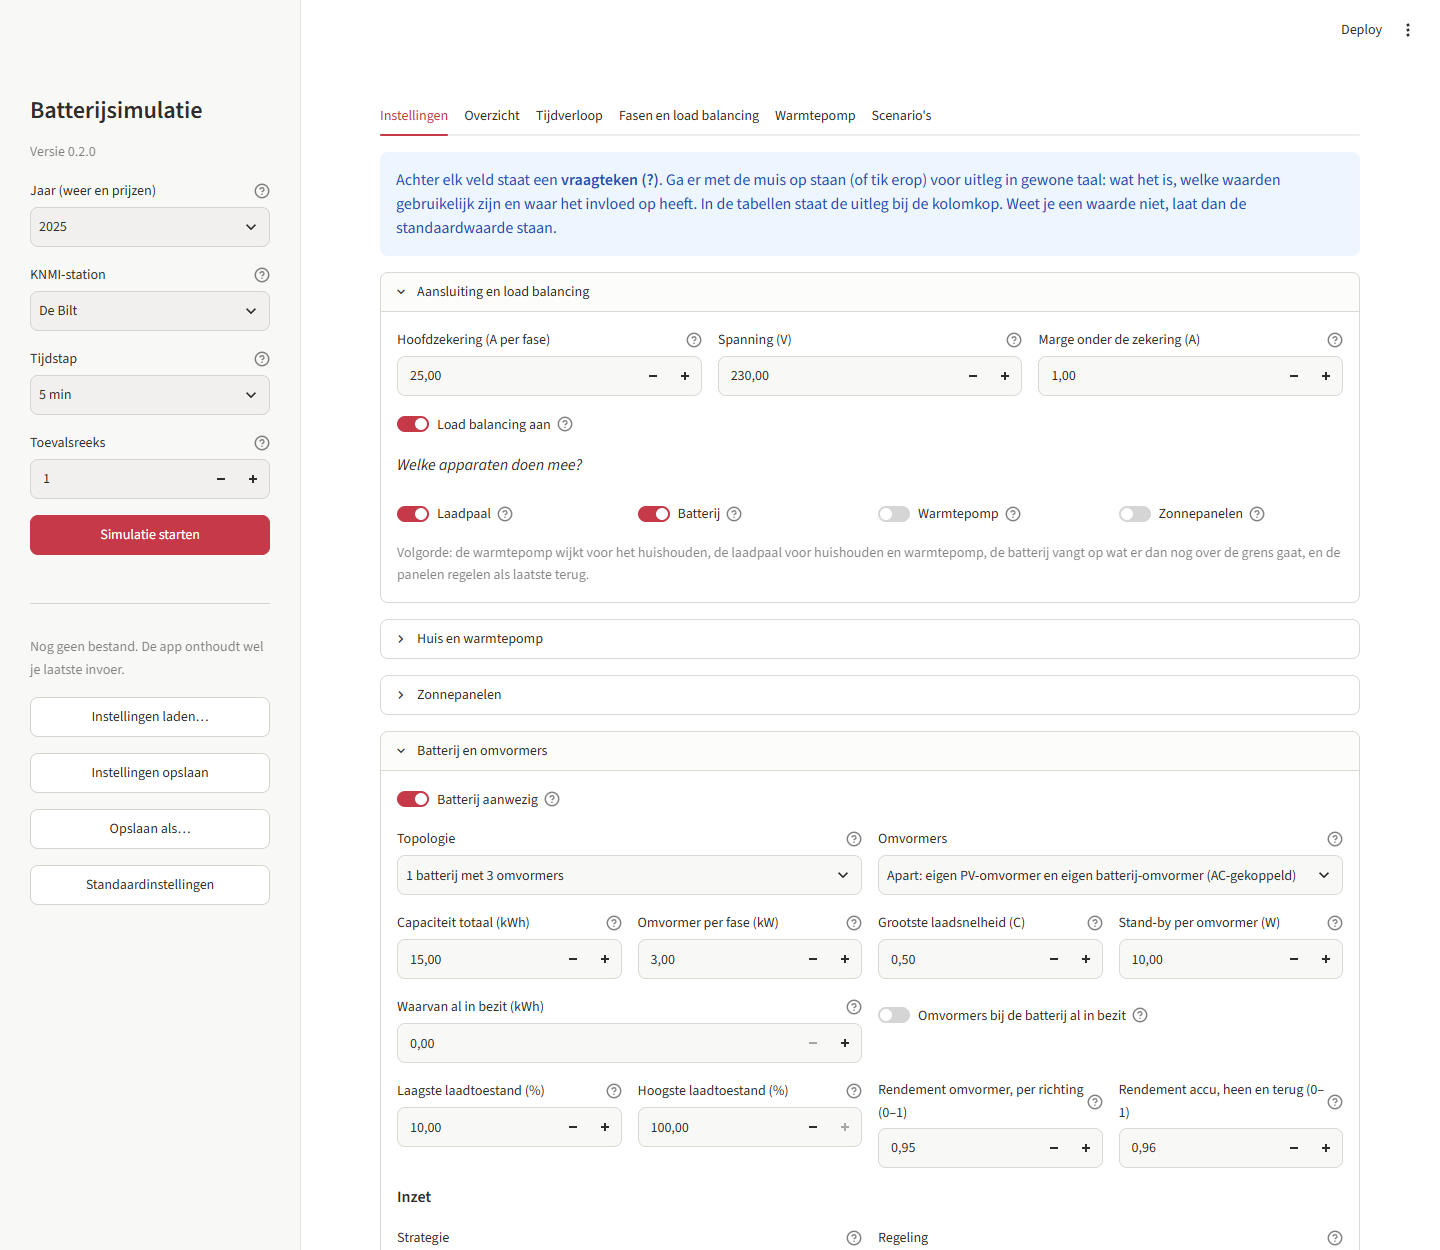
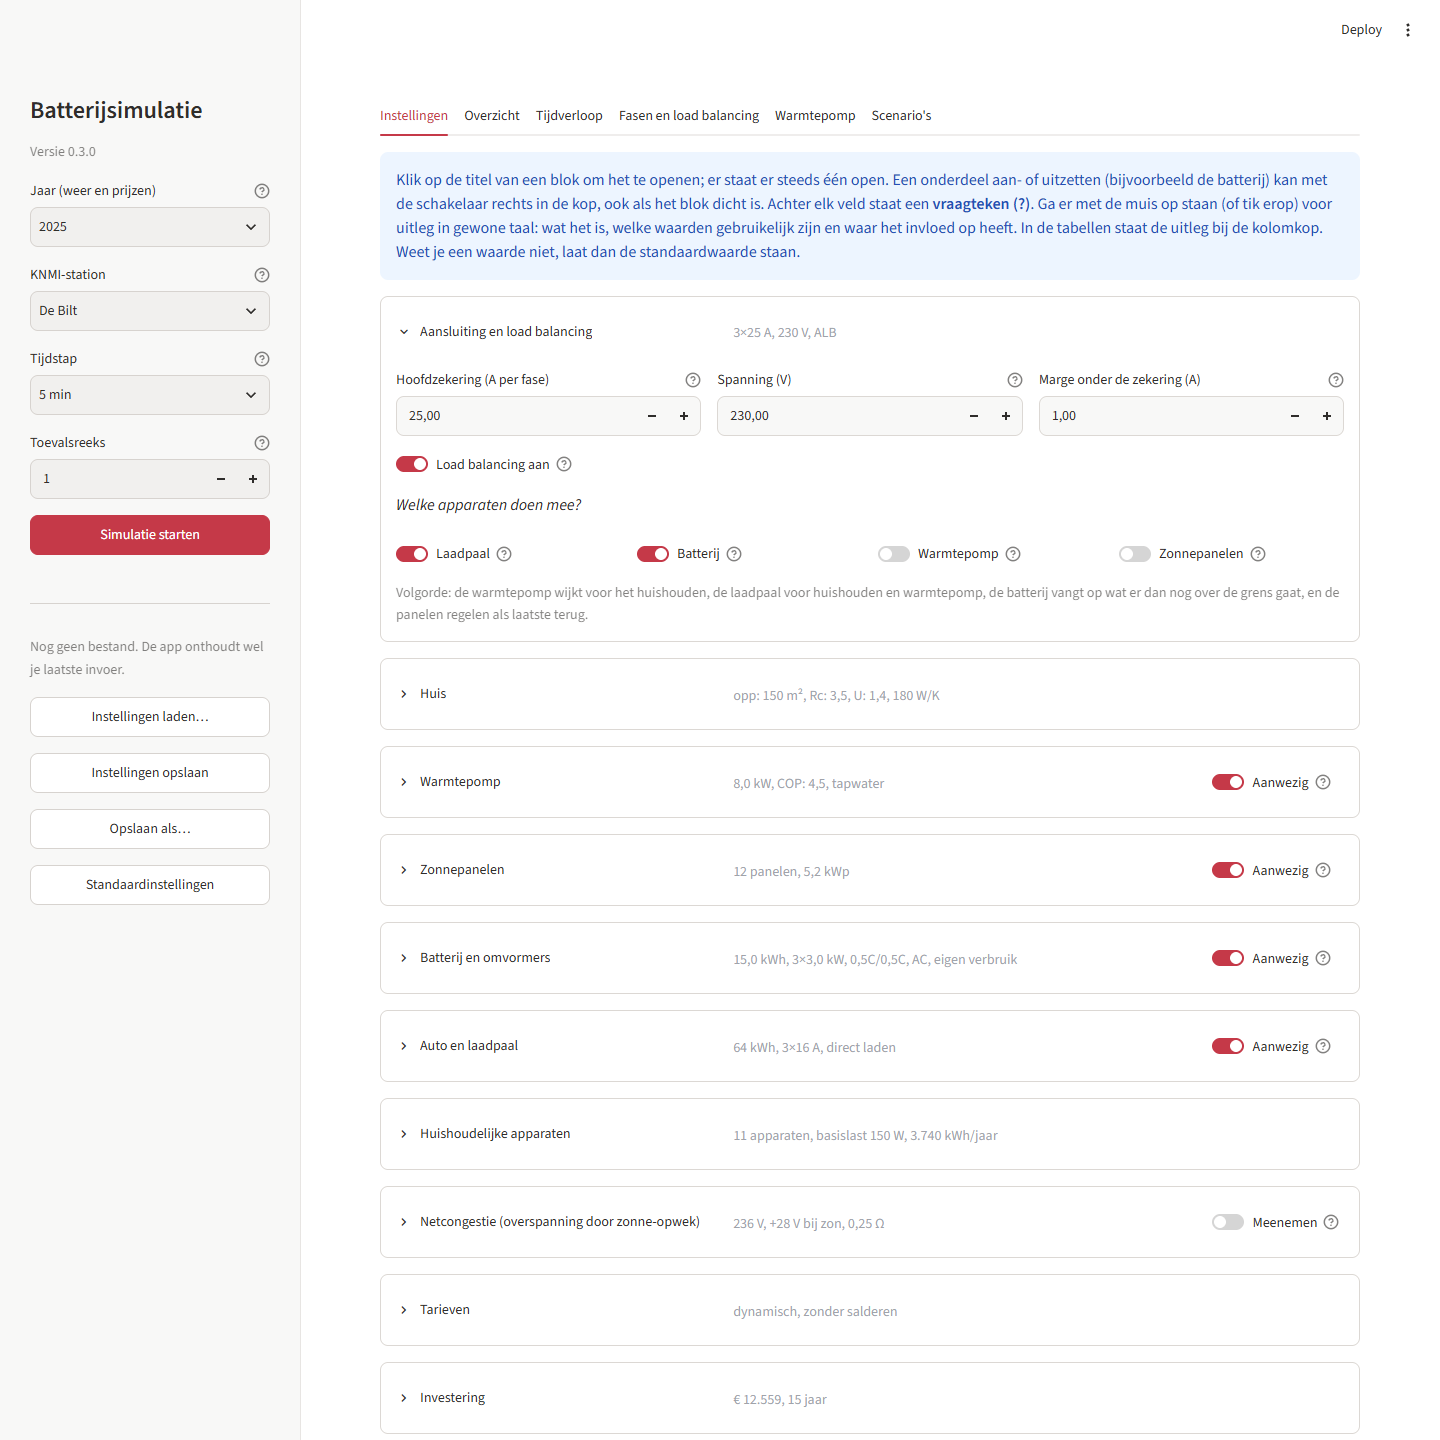
Kentallen in de koppen van de tegels; schermafbeelding Instellingen bijgewerkt
Elke tegel op het tabblad Instellingen toont in lichtgrijs, in het midden
van de kop, de belangrijkste kentallen van dat blok. De schakelaar blijft
rechts. De schermafbeelding in de README toont de nieuwe tegels.

diff --git a/app.py b/app.py
@@ -34,6 +34,7 @@ from __future__ import annotations
 
 import dataclasses
 import datetime as dt
+import html
 import math
 from pathlib import Path
 
@@ -422,7 +423,83 @@ def _wissel_tegel(naam: str) -> None:
             st.session_state[sleutel] += 1
 
 
-def tegel(naam: str, titel: str, obj=None, attr: str | None = None, schakellabel: str = "Aanwezig"):
+def _kentallen(cfg: Config) -> dict[str, str]:
+    """Geeft per tegel van het tabblad Instellingen de belangrijkste kentallen als korte tekst.
+
+    Waarom dit bestaat:
+        Er staat steeds maar één tegel open. Zonder kentallen in de kop is van
+        de dichte tegels niet te zien wat erin staat, en moet je ze een voor
+        een openen om de installatie te overzien. Met de kentallen erbij is
+        het tabblad in dichte toestand een samenvatting van de hele
+        instelling.
+
+    De teksten zijn bewust kort en zonder uitleg: een paar getallen die de
+    tegel typeren, in de volgorde waarin iemand de installatie zou
+    omschrijven. De volledige uitleg staat bij de velden zelf.
+
+    Returns:
+        Naam van de tegel (zoals bij ``tegel``) -> tekst voor in de kop.
+    """
+    a, h, w, z, b, au = cfg.aansluiting, cfg.huis, cfg.warmtepomp, cfg.zon, cfg.batterij, cfg.auto
+    hh, nc, t = cfg.huishouden, cfg.netcongestie, cfg.tarieven
+
+    # Aansluiting: ALB = automatische load balancing.
+    aansluiting = f"3×{nl(a.hoofdzekering_a)} A, {nl(a.spanning_v)} V" + (", ALB" if a.loadbalancing_actief else "")
+
+    huis = (
+        f"opp: {nl(h.vloeroppervlak_m2)} m², Rc: {nl(h.rc_waarde, 1)}, U: {nl(h.u_raam, 1)}, "
+        f"{nl(warmteverlies_w_per_k(h))} W/K"
+    )
+
+    warmtepomp = f"{nl(w.thermisch_vermogen_kw, 1)} kW, COP: {nl(w.cop_nominaal, 1)}" + (
+        ", tapwater" if w.tapwater_via_warmtepomp else ""
+    )
+
+    panelen = sum(v.aantal_panelen for v in z.velden)
+    kwp = sum(v.aantal_panelen * v.wp_per_paneel for v in z.velden) / 1000.0
+    zon = f"{panelen} panelen, {nl(kwp, 1)} kWp" + (f", {len(z.velden)} velden" if len(z.velden) > 1 else "")
+
+    # Korte namen voor in de kop; de volledige staan in de keuzelijst.
+    strategie = {"eigen_verbruik": "eigen verbruik", "piek_shaving": "piek shaving", "handel": "uurprijzen", "onbalans": "onbalans"}
+    batterij = (
+        f"{nl(b.capaciteit_kwh, 1)} kWh, 3×{nl(b.omvormer_kw_per_fase, 1)} kW, "
+        f"{nl(b.max_laad_c_rate, 1)}C/{nl(b.max_ontlaad_c_rate, 1)}C, "
+        f"{'hybride' if b.koppeling == 'hybride' else 'AC'}, {strategie.get(b.strategie, b.strategie)}"
+    )
+
+    laden = {"direct": "direct laden", "goedkoop": "goedkoopste uren", "zon": "op zonne-overschot"}
+    auto = f"{nl(au.accu_kwh)} kWh, {au.laad_fasen}×{nl(au.max_stroom_a)} A, {laden.get(au.strategie, au.strategie)}"
+
+    verbruik = basislast_kwh_per_jaar(hh) + sum(apparaat_kwh_per_jaar(app) for app in hh.apparaten)
+    apparaten = f"{len(hh.apparaten)} apparaten, basislast {nl(sum(hh.basislast_w))} W, {nl(verbruik)} kWh/jaar"
+
+    netcongestie = f"{nl(nc.rustspanning_v)} V, +{nl(nc.stijging_v_per_1000wm2)} V bij zon, {nl(nc.netimpedantie_ohm, 2)} Ω"
+
+    if t.contract == "vast":
+        tarieven = f"vast € {nl(t.vaste_prijs, 2)}"
+    else:
+        tarieven = "dynamisch"
+    tarieven += ", salderen" if t.salderen else ", zonder salderen"
+
+    kosten = f"€ {nl(investering(cfg)['totaal'])}, {nl(cfg.investering.levensduur_jaren)} jaar"
+
+    return {
+        "aansluiting": aansluiting,
+        "huis": huis,
+        "warmtepomp": warmtepomp,
+        "zon": zon,
+        "batterij": batterij,
+        "auto": auto,
+        "apparaten": apparaten,
+        "netcongestie": netcongestie,
+        "tarieven": tarieven,
+        "investering": kosten,
+    }
+
+
+def tegel(
+    naam: str, titel: str, obj=None, attr: str | None = None, schakellabel: str = "Aanwezig", kentallen: str = ""
+):
     """Toont één tegel van het tabblad Instellingen: een kop, en de inhoud als de tegel openstaat.
 
     Waarom dit bestaat:
@@ -449,14 +526,31 @@ def tegel(naam: str, titel: str, obj=None, attr: str | None = None, schakellabel
         obj, attr: het aan/uit-veld van de Config dat in de kop komt
             (``obj.attr``), of niets voor een tegel zonder schakelaar.
         schakellabel: de tekst bij die schakelaar.
+        kentallen: korte samenvatting van de tegel (zie ``_kentallen``); komt
+            in lichtgrijs in het midden van de kop, zodat ze ook bij een
+            dichte tegel te lezen is. De schakelaar blijft rechts staan.
     """
     is_open = st.session_state.get("open_tegel") == naam
     with st.container(border=True):
-        if obj is None:
-            kop = st.container()
-        else:
-            kop, kant = st.columns([5, 1], vertical_alignment="center")
+        # Drie vaste kolommen in elke kop: titel, kentallen, schakelaar. Ook
+        # een tegel zonder schakelaar krijgt ze alle drie, zodat de kentallen
+        # van alle tegels recht onder elkaar beginnen, ruim los van de titel.
+        kop, midden, kant = st.columns([3.5, 5, 1.5], vertical_alignment="center")
+        if obj is not None:
             schakelaar(kant, obj, attr, schakellabel)
+        if kentallen:
+            # Lichtgrijs en iets kleiner: de kentallen zijn er om na te
+            # slaan en mogen de titels niet overstemmen. De kleur is half
+            # doorzichtig grijs, zodat ze in een licht en een donker thema
+            # allebei leesbaar blijft.
+            #
+            # Was eerst: in het label van de knop, direct achter de titel
+            # (``:gray[...]``). Afgewezen omdat titel en kentallen dan tegen
+            # elkaar aan staan en het grijs van Streamlit te donker is.
+            midden.markdown(
+                f"<span style='color: rgba(128, 132, 142, 0.75); font-size: 0.875rem;'>{html.escape(kentallen)}</span>",
+                unsafe_allow_html=True,
+            )
         # Bewust zonder ``help``: een ballon die bij elke muisbeweging over de
         # kop opkomt, zit het klikken in de weg.
         kop.button(
@@ -509,8 +603,12 @@ def toon_instellingen(cfg: Config, weer: pd.DataFrame | None = None) -> None:
     )
     # Bij de eerste keer staat het eerste blok open.
     st.session_state.setdefault("open_tegel", "aansluiting")
+    # De kentallen voor in de koppen, één keer voor alle tegels. Ze horen bij
+    # de instelling aan het begin van deze opbouw; na een wijziging volgt
+    # altijd een nieuwe opbouw (zie hierboven), waarin ze bijgewerkt zijn.
+    kern = _kentallen(cfg)
 
-    for _ in tegel("aansluiting", "Aansluiting en load balancing"):
+    for _ in tegel("aansluiting", "Aansluiting en load balancing", kentallen=kern["aansluiting"]):
         a = cfg.aansluiting
         k1, k2, k3 = st.columns(3)
         getal(k1, a, "hoofdzekering_a", "Hoofdzekering (A per fase)", 5.0, 6.0)
@@ -529,7 +627,7 @@ def toon_instellingen(cfg: Config, weer: pd.DataFrame | None = None) -> None:
                 "de batterij vangt op wat er dan nog over de grens gaat, en de panelen regelen als laatste terug."
             )
 
-    for _ in tegel("huis", "Huis"):
+    for _ in tegel("huis", "Huis", kentallen=kern["huis"]):
         h = cfg.huis
         st.caption("Uit deze gegevens en het weer van het gekozen jaar volgt hoeveel warmte het huis nodig heeft.")
 
@@ -561,7 +659,7 @@ def toon_instellingen(cfg: Config, weer: pd.DataFrame | None = None) -> None:
     # De warmtepomp heeft een eigen tegel, los van het huis: het huis bepaalt
     # de warmtevraag, de warmtepomp is een apparaat dat aan of uit kan staan.
     w = cfg.warmtepomp
-    for _ in tegel("warmtepomp", "Warmtepomp", w, "aanwezig"):
+    for _ in tegel("warmtepomp", "Warmtepomp", w, "aanwezig", kentallen=kern["warmtepomp"]):
         k1, k2, k3, k4 = st.columns(4)
         getal(k1, w, "thermisch_vermogen_kw", "Geleverd vermogen (kW warmte)", 0.5, 1.0)
         getal(k2, w, "cop_nominaal", "COP bij 7 °C buiten", 0.1, 1.0)
@@ -580,7 +678,7 @@ def toon_instellingen(cfg: Config, weer: pd.DataFrame | None = None) -> None:
             getal(k3, w, "tapwater_startuur", "Boiler opwarmen om (uur)", 0.5, 0.0, 23.5)
 
     z = cfg.zon
-    for _ in tegel("zon", "Zonnepanelen", z, "aanwezig"):
+    for _ in tegel("zon", "Zonnepanelen", z, "aanwezig", kentallen=kern["zon"]):
         if not z.aanwezig:
             st.caption("Er wordt gerekend zonder panelen. De velden hieronder blijven bewaard.")
         st.caption(
@@ -621,7 +719,7 @@ def toon_instellingen(cfg: Config, weer: pd.DataFrame | None = None) -> None:
         getal(k1, z, "uitschakelspanning_v", "Uitschakelspanning omvormer (V)", 0.5, 230.0)
 
     b = cfg.batterij
-    for _ in tegel("batterij", "Batterij en omvormers", b, "aanwezig"):
+    for _ in tegel("batterij", "Batterij en omvormers", b, "aanwezig", kentallen=kern["batterij"]):
         k1, k2 = st.columns(2)
         keuze(k1, b, "topologie", "Topologie", TOPOLOGIEEN)
         keuze(k2, b, "koppeling", "Omvormers", KOPPELINGEN)
@@ -705,7 +803,7 @@ def toon_instellingen(cfg: Config, weer: pd.DataFrame | None = None) -> None:
                 st.caption("Netcongestie staat uit; deze instelling doet nu niets.")
 
     au = cfg.auto
-    for _ in tegel("auto", "Auto en laadpaal", au, "aanwezig"):
+    for _ in tegel("auto", "Auto en laadpaal", au, "aanwezig", kentallen=kern["auto"]):
         k1, k2, k3, k4 = st.columns(4)
         getal(k1, au, "accu_kwh", "Accu (kWh)", 1.0, 5.0)
         getal(k2, au, "verbruik_kwh_per_100km", "Verbruik (kWh/100 km)", 0.5, 5.0)
@@ -736,7 +834,7 @@ def toon_instellingen(cfg: Config, weer: pd.DataFrame | None = None) -> None:
         keuze(k1, au, "strategie", "Laadstrategie", LAADSTRATEGIEEN)
         getal(k2, au, "laadrendement", "Laadrendement (0–1)", 0.01, 0.5, 1.0)
 
-    for _ in tegel("apparaten", "Huishoudelijke apparaten"):
+    for _ in tegel("apparaten", "Huishoudelijke apparaten", kentallen=kern["apparaten"]):
         hh = cfg.huishouden
         st.markdown("**Basislast** (wat altijd aanstaat)")
         kolommen = st.columns(3)
@@ -815,7 +913,9 @@ def toon_instellingen(cfg: Config, weer: pd.DataFrame | None = None) -> None:
     # Netcongestie is geen apparaat maar een storing die wel of niet wordt
     # meegerekend; de schakelaar in de kop heet daarom "Meenemen".
     nc = cfg.netcongestie
-    for _ in tegel("netcongestie", "Netcongestie (overspanning door zonne-opwek)", nc, "actief", "Meenemen"):
+    for _ in tegel(
+        "netcongestie", "Netcongestie (overspanning door zonne-opwek)", nc, "actief", "Meenemen", kern["netcongestie"]
+    ):
         st.caption(
             "Op zonnige middagen leveren alle panelen in de straat tegelijk terug. De netspanning stijgt dan, en boven de "
             "uitschakelspanning (zie Zonnepanelen) schakelen omvormers zichzelf uit. Zet de schakelaar in de kop aan om te zien "
@@ -846,7 +946,7 @@ def toon_instellingen(cfg: Config, weer: pd.DataFrame | None = None) -> None:
                 tekst += f", in de zwaarste maand ({ergste:02d}) op de meeste dagen van {vaak.min()}:00 tot {vaak.max() + 1}:00 uur"
             st.info(tekst + ". Ter vergelijking: gemiddeld over Nederland is het volgens de netbeheerders ongeveer 11 uur per jaar.")
 
-    for _ in tegel("tarieven", "Tarieven"):
+    for _ in tegel("tarieven", "Tarieven", kentallen=kern["tarieven"]):
         t = cfg.tarieven
         k1, k2 = st.columns(2)
         keuze(k1, t, "contract", "Contract", CONTRACTEN)
@@ -865,7 +965,7 @@ def toon_instellingen(cfg: Config, weer: pd.DataFrame | None = None) -> None:
             "ze zijn in elk scenario gelijk."
         )
 
-    for _ in tegel("investering", "Investering"):
+    for _ in tegel("investering", "Investering", kentallen=kern["investering"]):
         i = cfg.investering
         st.markdown("*Zonnepanelen*")
         k1, k2, _ = st.columns(3)

diff --git a/README.md b/README.md
@@ -169,7 +169,9 @@ niet opgeslagen.
 De instellingen staan in blokken. Klik op de titel van een blok om het te
 openen; er staat er steeds één open. Of een onderdeel aanwezig is
 (warmtepomp, zonnepanelen, batterij, auto) zet je met de schakelaar rechts in
-de kop van het blok, ook als het dicht is.
+de kop van het blok, ook als het dicht is. In elke kop staan in grijs de
+belangrijkste kentallen van dat blok, zodat je de hele installatie overziet
+zonder de blokken te openen.
 
 - **Aansluiting en load balancing** – de hoofdzekering, en welke apparaten
   terugregelen als een fase te zwaar belast wordt.
